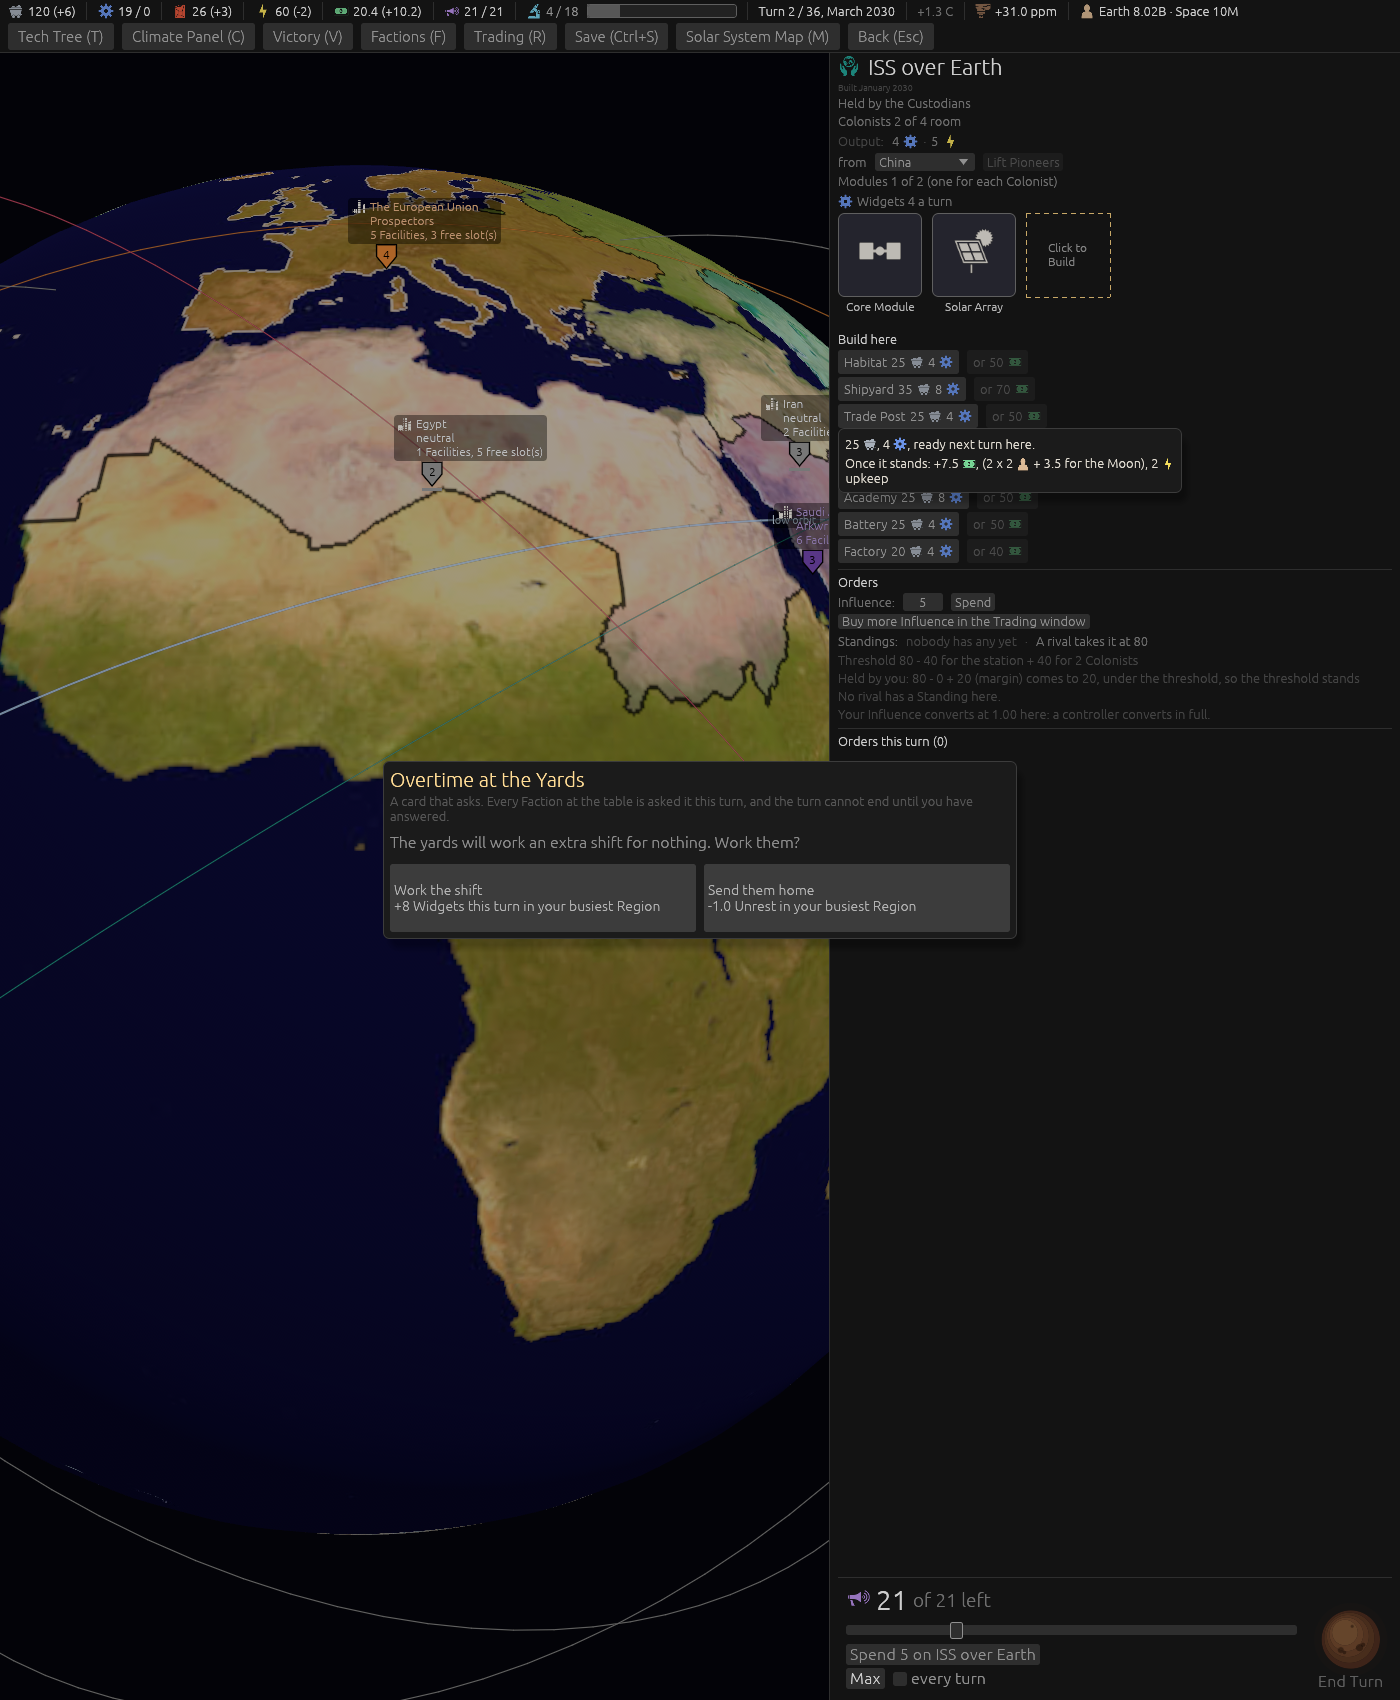
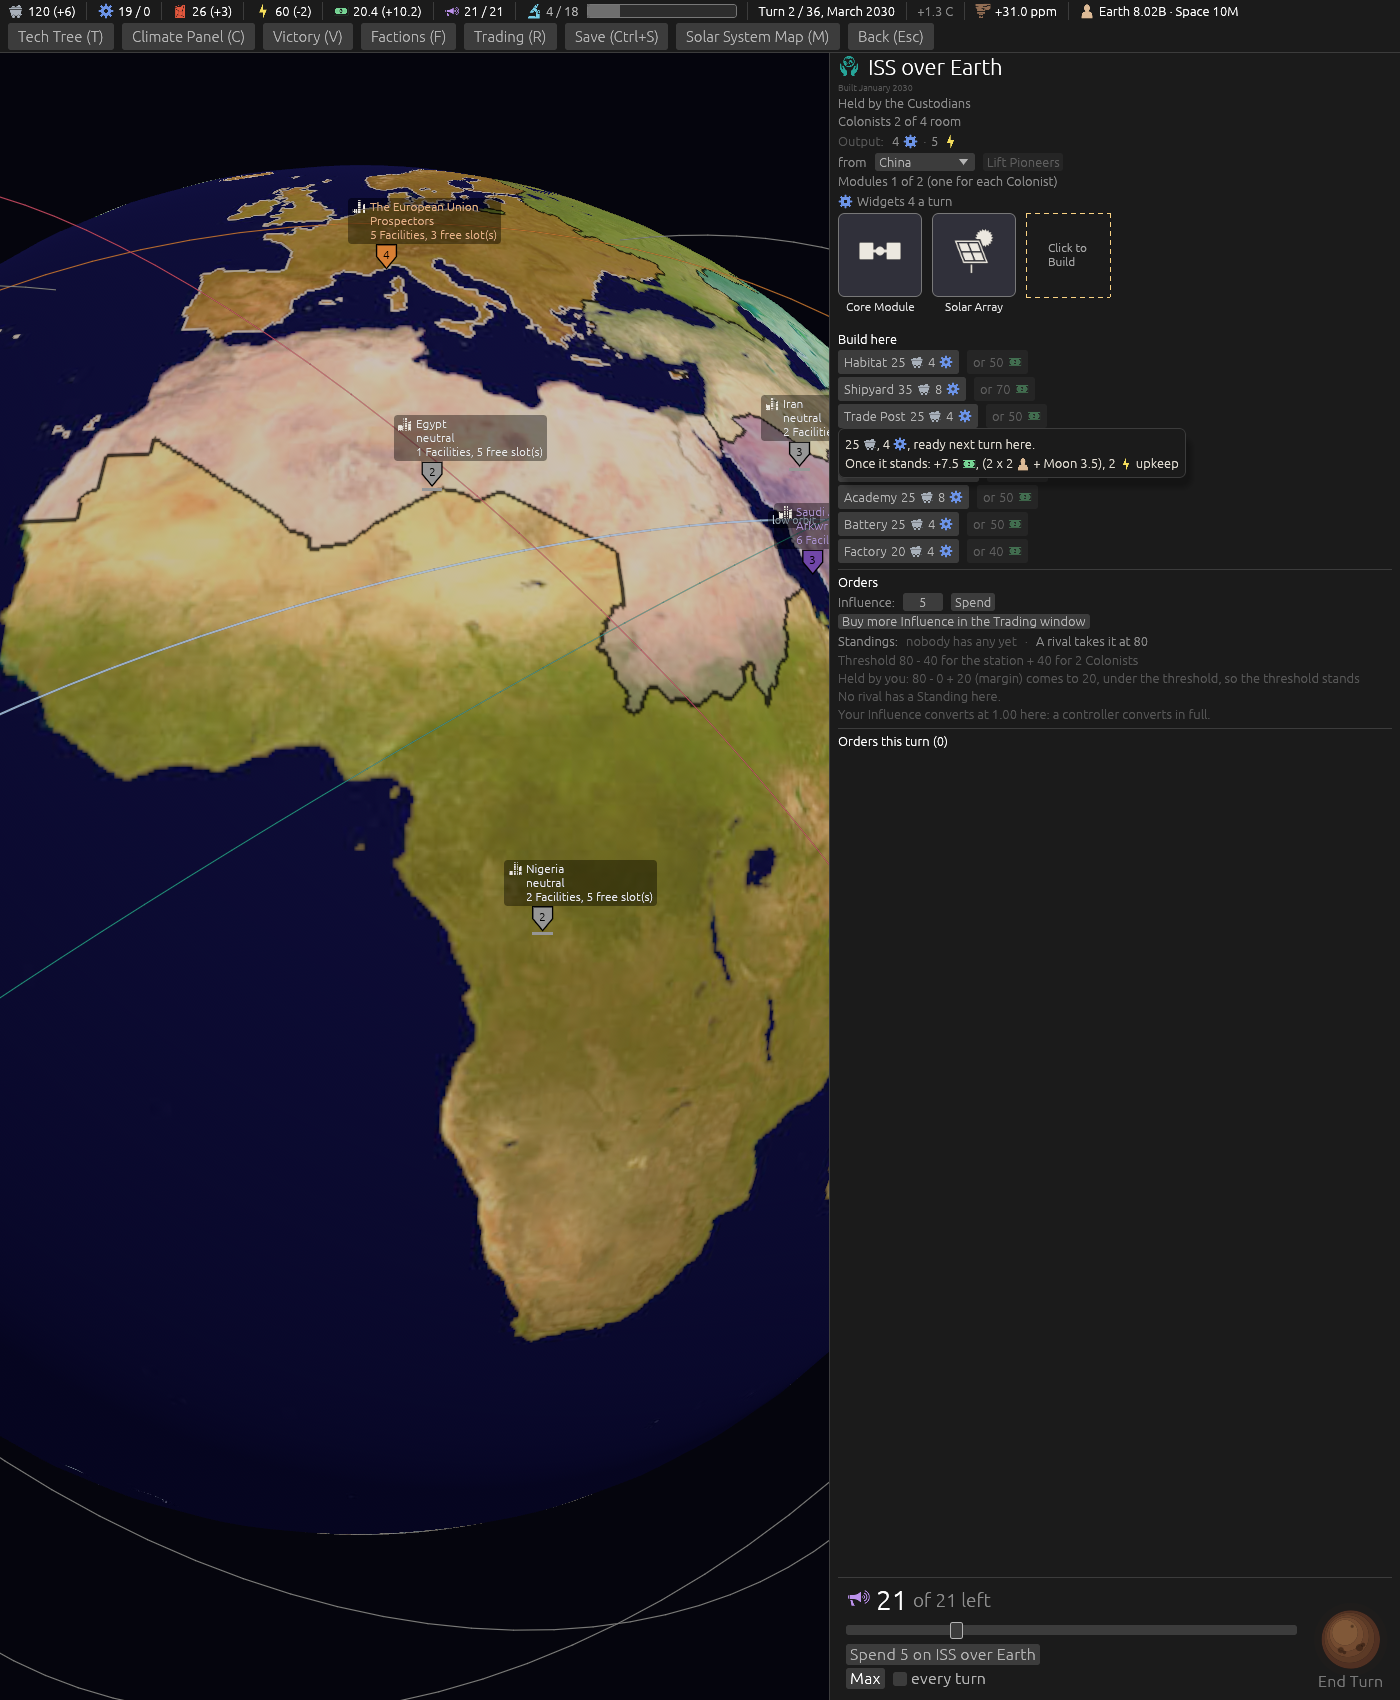
The review's fix-ups for the Trade Post's distance pay
The hover's arithmetic short (Earth 3 + Moon 3.5) and the chain's base line counting the Bodies,
so the hover with every Body held keeps within six lines; the dead per_other_body on the
Exchange's row deleted; three stale comments reworded; the pictures re-taken with the card set
aside.

diff --git a/engine/src/economy.rs b/engine/src/economy.rs
@@ -57,7 +57,7 @@ pub struct Yield {
     /// one does (the Custodians' signature).
     pub doubled_by: Option<&'static str>,
     /// Ticket #90 (version 0.06.0): how the figure was reached, for the card ("2 x 12 Colonists +
-    /// 3 x 2 Bodies"), when a Module's arithmetic is worth showing.
+    /// Earth 3 + Moon 3.5" since ticket #397), when a Module's arithmetic is worth showing.
     pub detail: Option<String>,
     /// Ticket #280 (version 0.08.5): what the building DOES when that is not a resource, or beside
     /// one -- the `does` sentence on its row in `facilities.toml` or `modules.toml`, written where
@@ -602,18 +602,21 @@ impl Game {
         if let Some(p) = &mc.produces {
             if job == ModuleKind::TradePost {
                 // Ticket #90 (version 0.06.0): trade is a network. `amount` Ducats per Colonist of
-                // the Faction at this Body, plus `per_other_body` for every other Body the Faction
-                // holds; no Body yield; the Faction's output multiplier applies.
+                // the Faction at this Body, plus a figure for every other Body the Faction holds; no
+                // Body yield; the Faction's output multiplier applies.
                 // Ticket #397 (version 0.09.3): each other Body held pays ITS OWN figure, by its
                 // distance from Earth (`trade_pays` on the Body's row), where a flat 3 stood -- the
-                // designer's "money reason to go far". The arithmetic names each Body with its figure.
+                // designer's "money reason to go far". The arithmetic names each Body with its
+                // figure, short ("Moon 3.5"), and the chain's base line counts rather than repeats
+                // it, so the build hover with every Body held stays within the six-line ceiling
+                // (the review's estimate: eight lines with the long form).
                 let here = self.colonists_at_body(seat, col.body) as i64;
                 let held: Vec<BodyId> = self.bodies_held(seat).into_iter().filter(|b| *b != col.body).collect();
                 let far: f64 = held.iter().map(|b| t.body(*b).trade_pays).sum();
                 let raw = p.amount as f64 * here as f64 + far;
-                let bodies = held.iter().map(|b| format!("{} for {}", figure(t.body(*b).trade_pays), b.name())).collect::<Vec<_>>().join(" + ");
+                let bodies = held.iter().map(|b| format!("{} {}", b.name().trim_start_matches("the "), figure(t.body(*b).trade_pays))).collect::<Vec<_>>().join(" + ");
                 let arithmetic = if held.is_empty() { format!("{} x {here} Colonists", p.amount) } else { format!("{} x {here} Colonists + {bodies}", p.amount) };
-                let mut v = Chain::base(raw, format!("from {arithmetic}"));
+                let mut v = Chain::base(raw, format!("from {here} Colonists here and {} other Bodies held", held.len()));
                 v.times(fac.output_multiplier, || format!("as the {}", fac.name));
                 y.resource = Some(Resource::Ducats);
                 // Ticket #387 (version 0.09.3): to the tenth, where it was floored.

diff --git a/engine/tests/formulas.rs b/engine/tests/formulas.rs
@@ -16773,7 +16773,7 @@ fn a_trade_post_pays_each_other_body_held_by_its_distance_from_earth() {
     let y = g.module_yield(seat, mars, ModuleKind::TradePost);
     assert!((y.amount - tenth((2.0 * 4.0 + 3.0 + 3.5 + 4.0) * m)).abs() < 1e-9, "Mars post: {} against {}", y.amount, (8.0 + 10.5) * m);
     let detail = y.detail.clone().unwrap_or_default();
-    assert!(detail.contains("3.5 for the Moon") && detail.contains("4 for Venus") && detail.contains("3 for Earth"), "the arithmetic names each Body: {detail}");
+    assert!(detail.contains("Moon 3.5") && detail.contains("Venus 4") && detail.contains("Earth 3"), "the arithmetic names each Body: {detail}");
     // A Moon Trade Post holding Earth, Mars and Venus: 3 + 5 + 4; the Moon's own 3.5 is not paid to itself.
     let moon = g.colonies.iter().find(|c| c.body == BodyId::Moon && c.control.director() == Some(seat)).map(|c| c.id).unwrap();
     g.colony_mut(moon).unwrap().modules.push(Module::new(ModuleKind::TradePost));

diff --git a/docs/dev-diary/2026-09-26-version-0.09.3/ticket-397-trade-by-distance/README.md b/docs/dev-diary/2026-09-26-version-0.09.3/ticket-397-trade-by-distance/README.md
@@ -15,14 +15,14 @@ held with its figure. The Exchange's flat 1 is untouched. No code of the compute
 
 ## The pictures
 
-**A Moon Colony's Trade Post button**, `seed:7 first:1 hab:ground habtile:free tip:for Earth`: the
-hover reads *+11 [coin], (2 x 4 [head] + 3 for Earth)*, where it read *(2 x 4 Colonists + 3 x 1
+**A Moon Colony's Trade Post button**, `seed:7 first:1 hab:ground habtile:free cardshut:1 tip:Earth 3`: the
+hover reads *+11 [coin], (2 x 4 [head] + Earth 3)*, where it read *(2 x 4 Colonists + 3 x 1
 Bodies)*.
 
 ![The Moon Colony's Trade Post hover naming Earth's figure](moon-trade-post.png)
 
-**The ISS's Trade Post button with the Moon held**, `seed:7 first:1 hab:1 habtile:free tip:for the
-Moon`: *+7.5 [coin], (2 x 2 [head] + 3.5 for the Moon)*, the designer's half more for the Moon.
+**The ISS's Trade Post button with the Moon held**, `seed:7 first:1 hab:1 habtile:free cardshut:1
+tip:Moon 3.5`: *+7.5 [coin], (2 x 2 [head] + Moon 3.5)*, the designer's half a Ducat more for the Moon.
 
 ![The ISS's Trade Post hover naming the Moon's figure](iss-trade-post.png)
 
@@ -33,6 +33,17 @@ Earth, the Moon and Venus pays 2 x 4 + 3 + 3.5 + 4 (red at *17 against 18.5* und
 the arithmetic naming each Body; a Moon Trade Post with nobody living there pays 3 + 5 + 4 for
 Earth, Mars and Venus, and 6 more for each of Phobos and Deimos; the Exchange pays its flat 1
 above it.
+
+## The review
+
+The standards review found the estimate that the build hover with every other Body held would run
+to eight lines against the six allowed: the arithmetic is now short (*Earth 3 + Moon 3.5*) and the
+chain's base line counts the Bodies rather than repeating them, six lines at the worst. It also
+found a dead `per_other_body = 3` copied onto the Exchange's row in 0.08.3, which read as the
+Exchange's figure once the real one moved: deleted. The spec review found three stale comments
+still saying *3 per other Body* (the yield's doc, its arm, and a note in `factions.toml`), now
+reworded, and the *Overtime at the Yards* card lying across both pictures: re-taken with the card set
+aside (`cardshut:1`).
 
 ## The sweep
 

diff --git a/docs/spec/version-0.09.3.md b/docs/spec/version-0.09.3.md
@@ -407,12 +407,14 @@ The Faction's output multiplier applies to the whole, as before, and the figure 
 **The figures** (Q2, the designer's: *"moon 3.5 then as suggested"*): **Earth 3, the Moon 3.5,
 Venus 4, Mars 5, Phobos 6, Deimos 6**, each on its Body's row in `bodies.toml` as `trade_pays`,
 where a flat `per_other_body` of 3 stood in `modules.toml`. Nothing pays less than before; the Moon
-pays a half more, the far Bodies up to twice.
+pays half a Ducat more, the far Bodies up to twice.
 
 **The Exchange** (Q3, A) follows: the same figures, its flat 1 after the multiplier, as before.
 
-**Where it is said.** The Trade Post's hover and its chain name each Body held with its figure:
-*2 x 4 Colonists + 3 for Earth + 3.5 for the Moon*, where they said *3 x 2 Bodies*. The computer
+**Where it is said.** The Trade Post's hover names each Body held with its figure: *2 x 4
+Colonists + Earth 3 + Moon 3.5*, where it said *3 x 2 Bodies*; the chain's base line counts them
+(*from 4 Colonists here and 2 other Bodies held*) so the hover with every Body held keeps within
+the six-line ceiling. The computer
 seats build Trade Posts and hold Bodies through the same yield; nothing changes for them by hand.
 
 **Figures.** The sweep before is the depot's (6 / 4 / 1 / 9, collapses 60; the Prospectors' Fund
